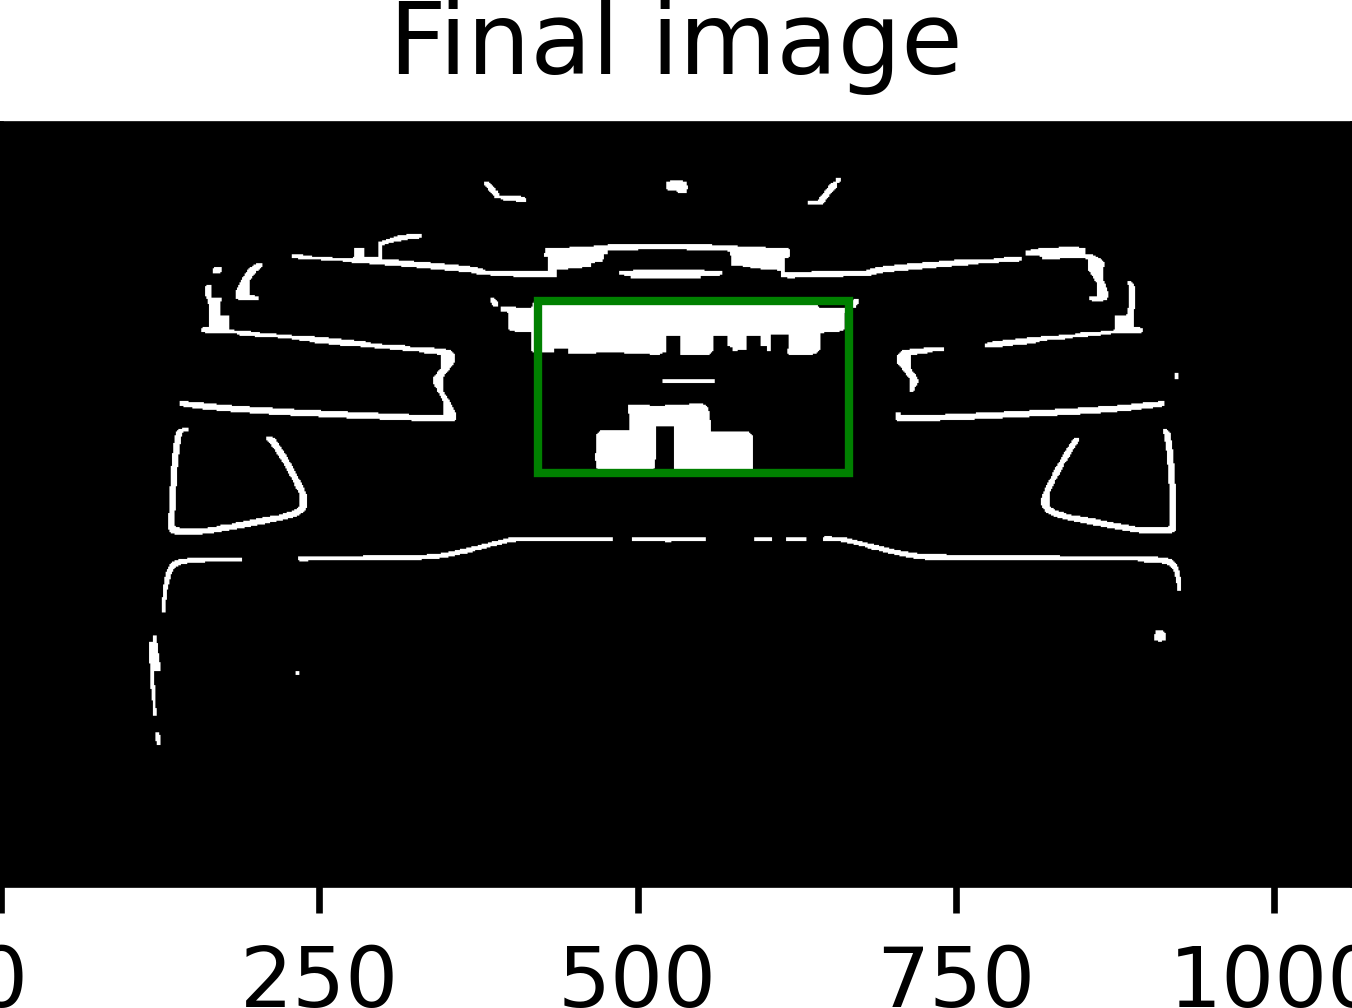
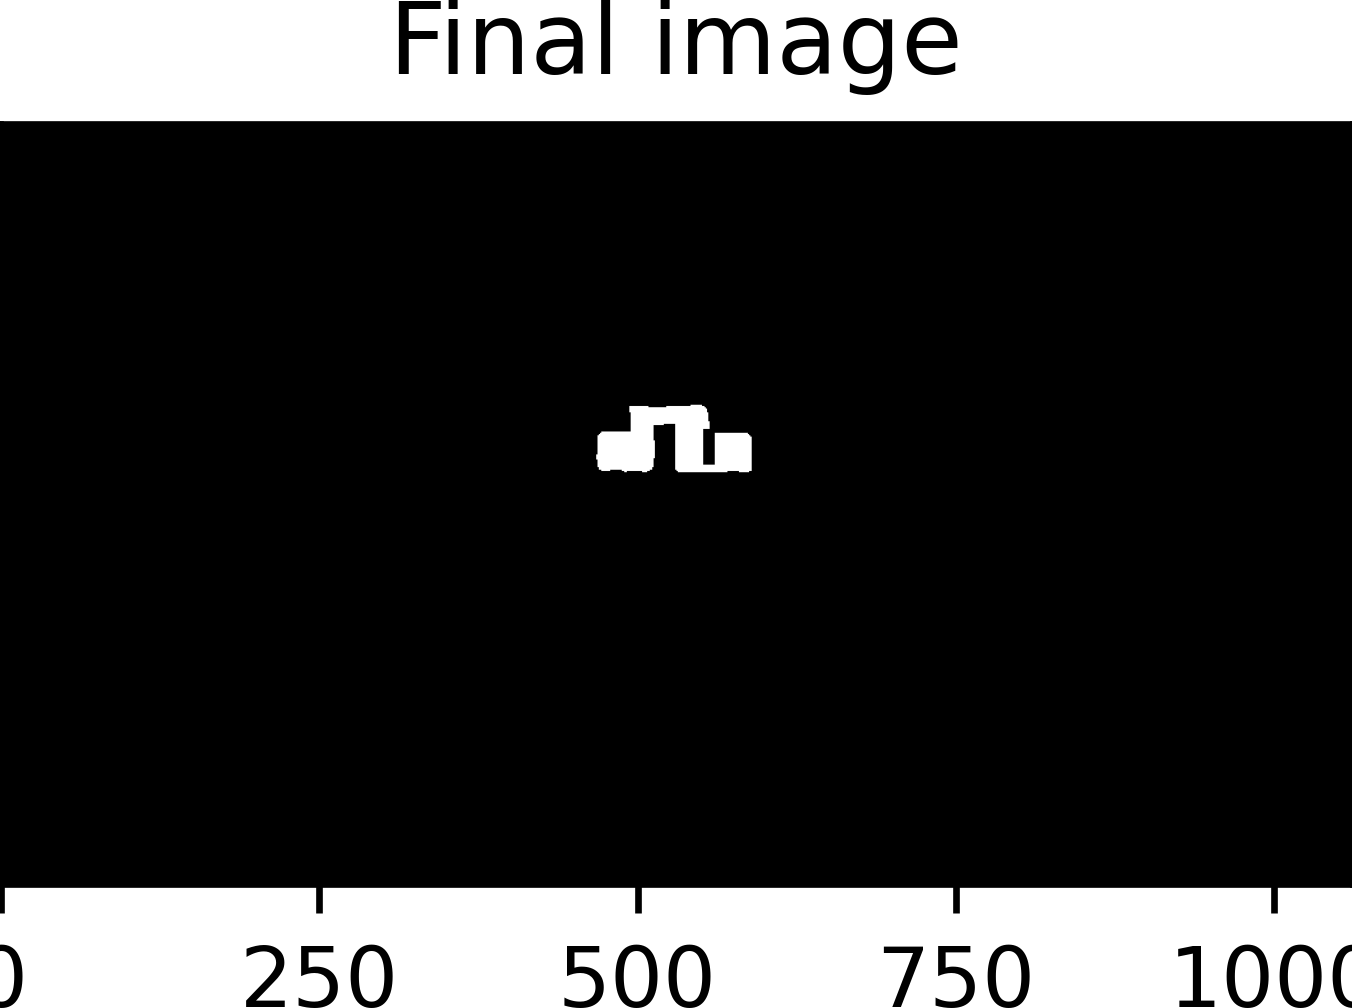
Right threshold and # dil/ero appear to be found

diff --git a/CS373LicensePlateDetection.py b/CS373LicensePlateDetection.py
@@ -266,13 +266,13 @@ def main():
     # 140 3 3 (2 and 3 are close; 4 only 2/3 match, 1, 5, 6 match)
     # 150 4 4 (4/6) (2 and 3 are somewhat close)
     # 150 3 5, 5x5 dilation (4/6)
-    px_array = computeThresholdGE(px_array, 140, image_width, image_height)
+    px_array = computeThresholdGE(px_array, 150, image_width, image_height)
 
     # print(px_array)
-    for _ in range(3):
+    for _ in range(4):
         px_array = computeDilation8Nbh3x3FlatSE(px_array, image_width, image_height)
 
-    for _ in range(3):
+    for _ in range(4):
         px_array = computeErosion8Nbh3x3FlatSE(px_array, image_width, image_height)
 
     # (px_array)
